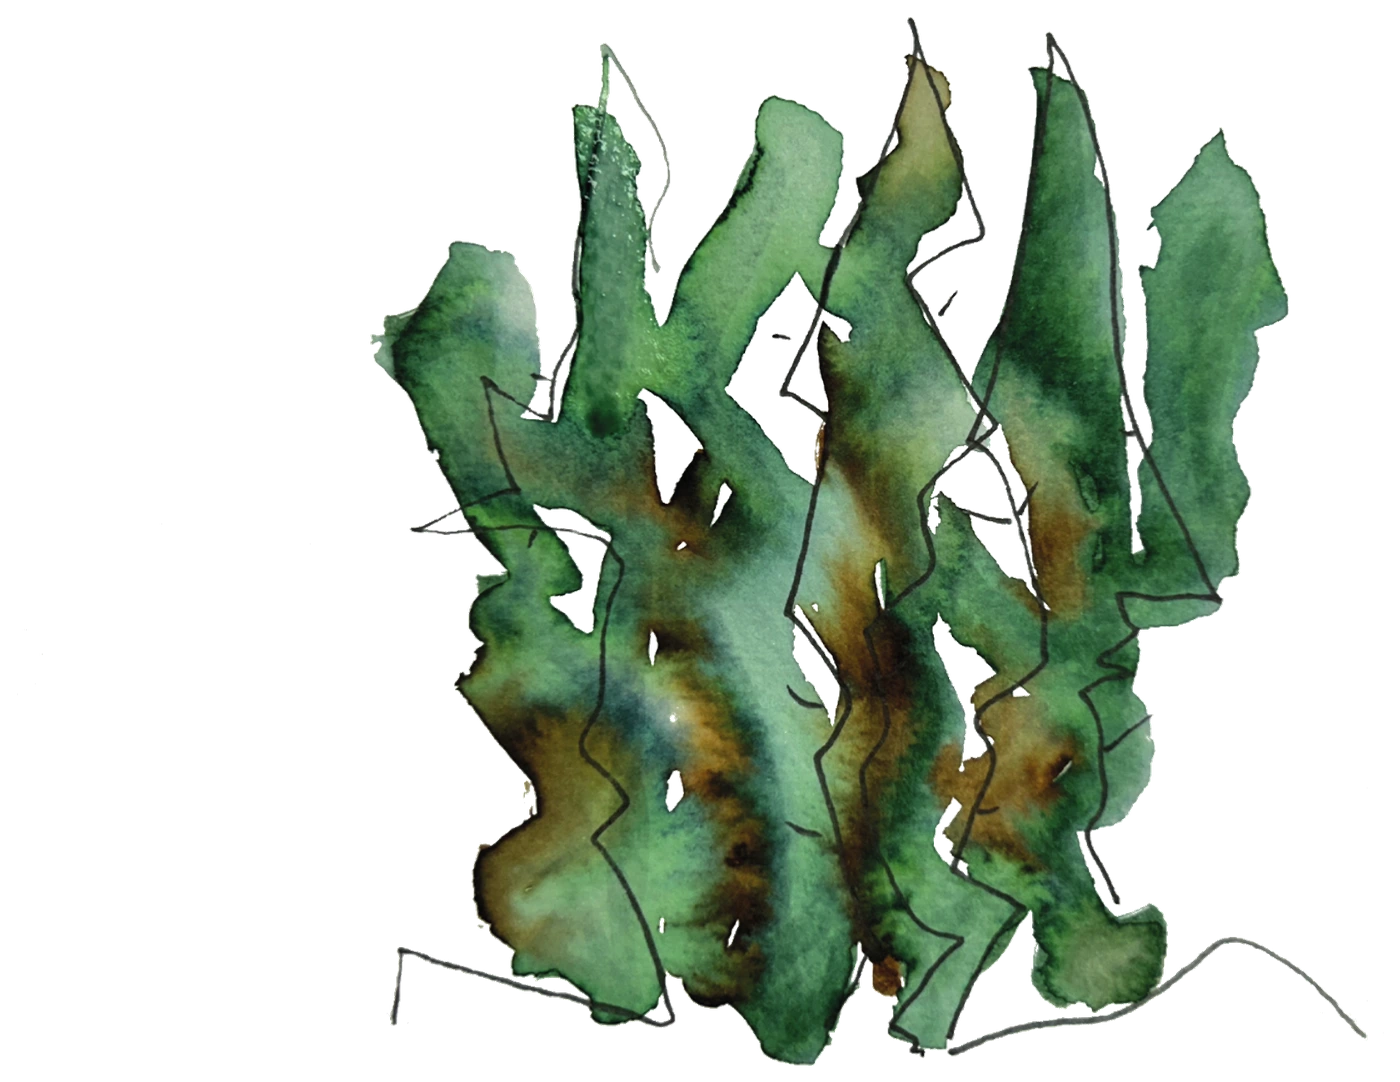
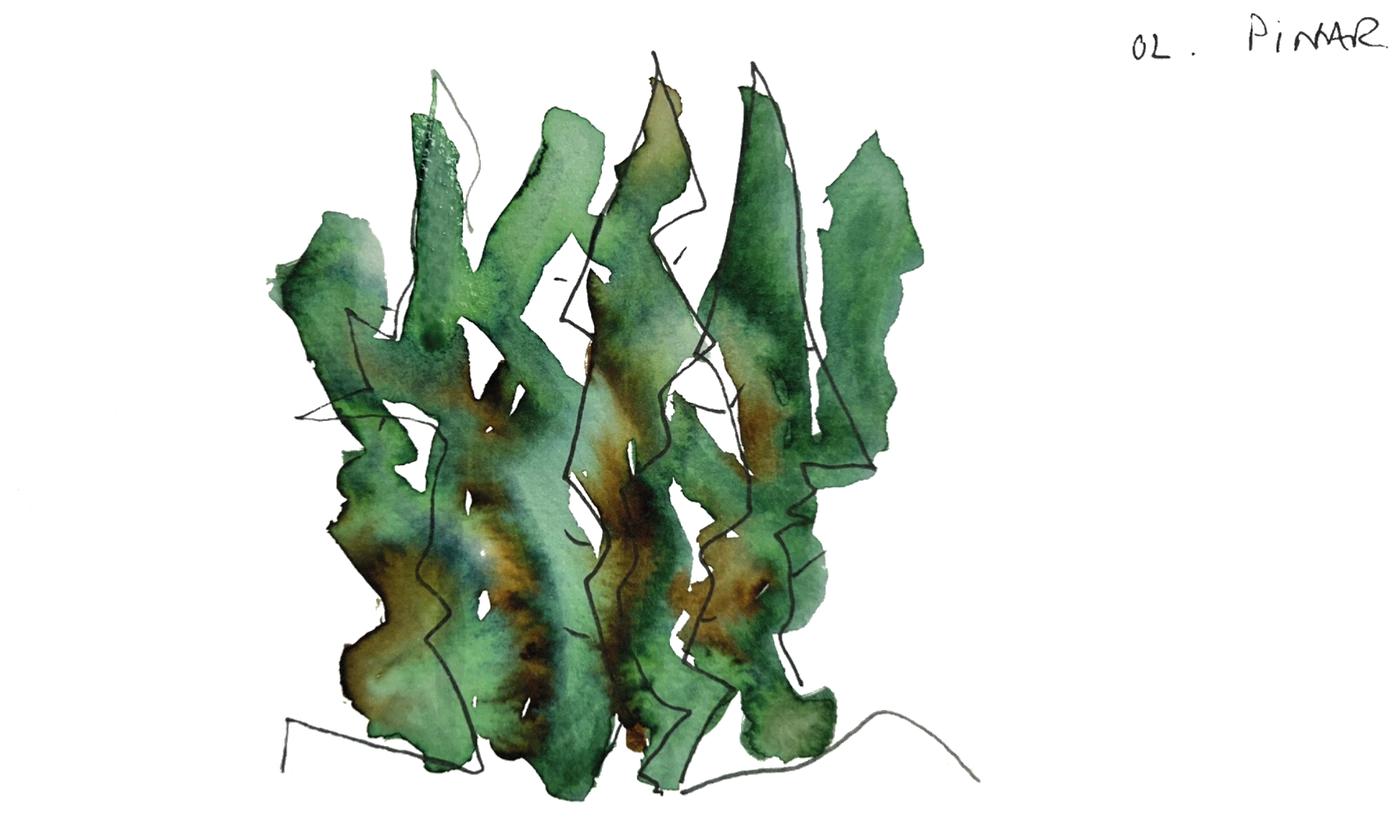
fix: recuperar etiqueta manuscrita en ilustraciones y hover a fondo sólido en vez de difuminado

diff --git a/menu.css b/menu.css
@@ -94,14 +94,6 @@
   height: 100%;
   object-fit: contain;
   display: block;
-  transition: transform 0.4s ease, opacity 0.3s ease;
-}
-
-.oba-menu-item:not(.oba-menu-item--imagen):hover .oba-menu-item-media img,
-.oba-menu-item:not(.oba-menu-item--imagen):focus-visible .oba-menu-item-media img,
-.oba-menu-item:not(.oba-menu-item--imagen).is-open .oba-menu-item-media img {
-  transform: scale(1.04);
-  opacity: 0.16;
 }
 
 /* Ficha superpuesta: oculta por defecto, aparece con el cursor encima
@@ -114,16 +106,15 @@
   align-items: center;
   gap: 5%;
   padding: 9% 8%;
+  background-color: #f9f2e2;
   opacity: 0;
-  transform: translateY(6px);
-  transition: opacity 0.3s ease, transform 0.3s ease;
+  transition: opacity 0.15s ease;
   pointer-events: none;
 }
 .oba-menu-item:hover .oba-menu-item-overlay,
 .oba-menu-item:focus-visible .oba-menu-item-overlay,
 .oba-menu-item.is-open .oba-menu-item-overlay {
   opacity: 1;
-  transform: translateY(0);
   pointer-events: auto;
 }
 
